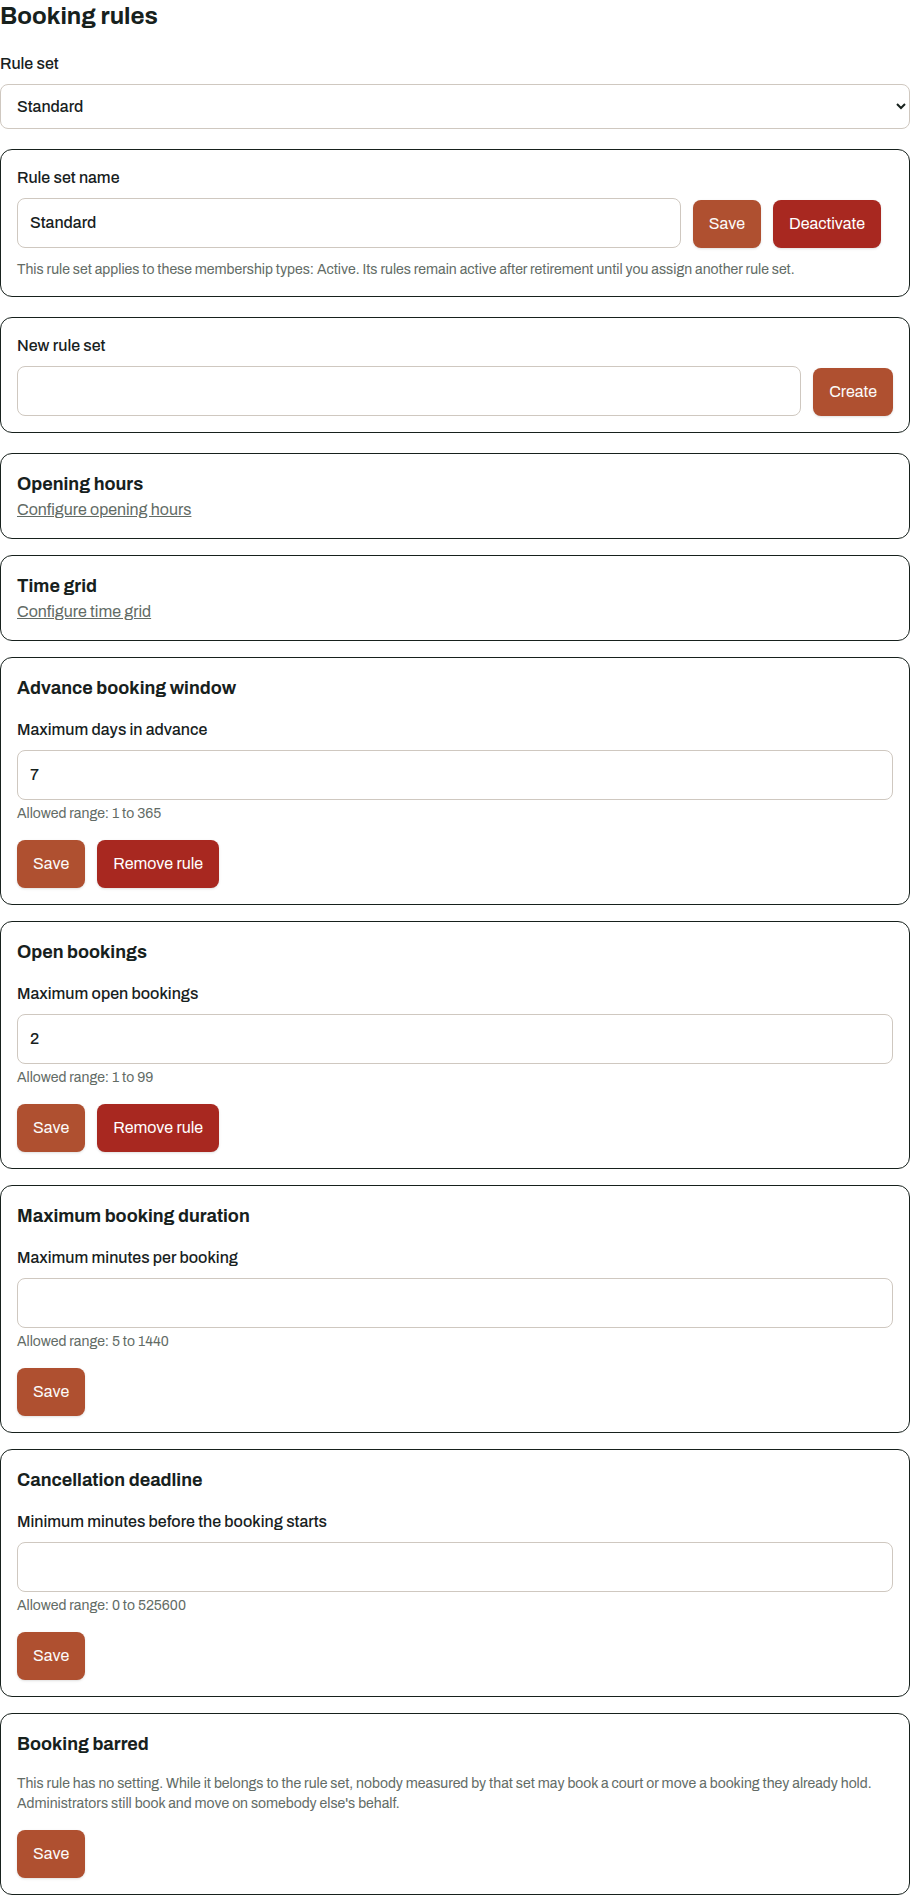
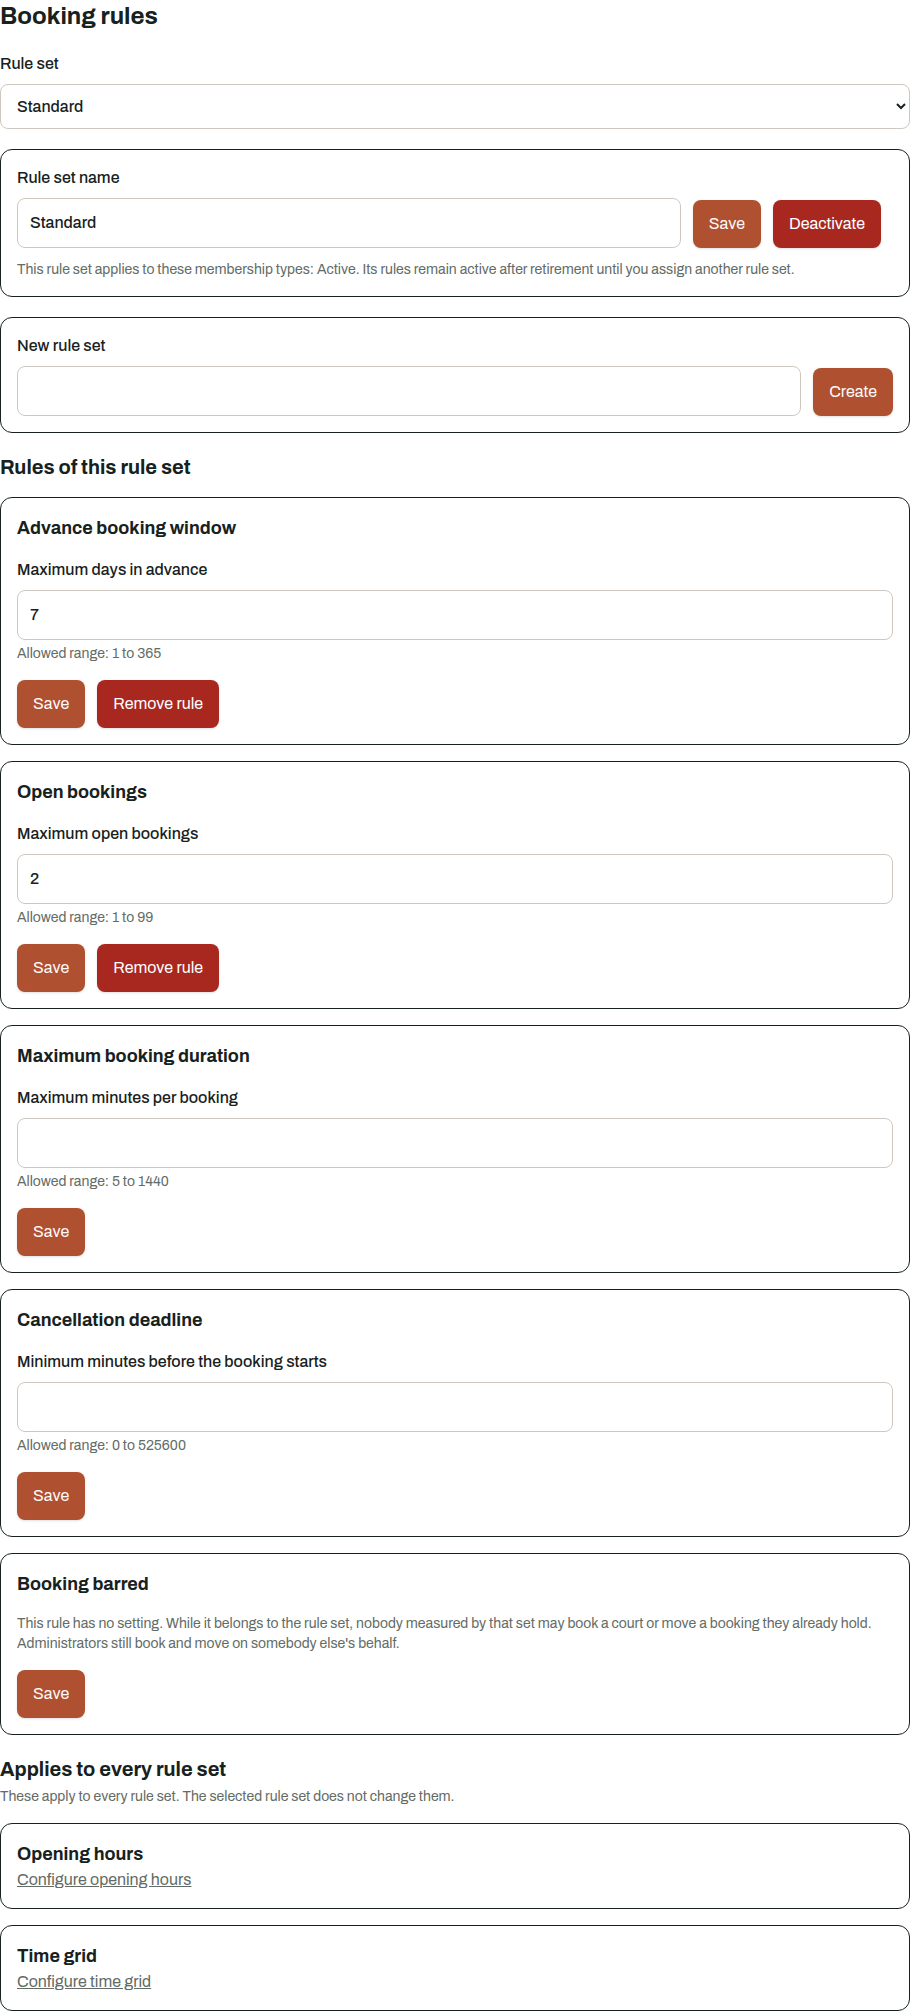
feat: show which booking rules no rule set can change (#1038)
* feat: show which booking rules no rule set can change

The rule list rendered every rule type the engine evaluates in one block under
the rule set selector, so opening hours and the booking grid read as settings of
the selected rule set. They are not: a club's hours describe the facility, and
two rule sets with different grids would draw two different plans of the same
courts. Only the missing fields and a link said so, and switching the rule set
was the only way to find out that they do not move.

They now stand in their own group, named and explained. The board guide already
said "Öffnungszeiten und Buchungsraster gelten für den ganzen Verein. Sie stehen
deshalb außerhalb der Regelwerke" — the screen it shows is what disagreed.

* feat: name both groups of booking rules and nest their headings

The self-review found the split half-told: the club-wide group carried a
heading while the rule set's own rules carried none, so the page said what the
lower group is not without saying what the upper group is. And both headings sat
at the same level as the rule titles beneath them, which reads as siblings to
anyone navigating by heading rather than by eye.

Both groups are named now, and a rule title sits one level under the group that
holds it.

---------

diff --git a/frontend/src/views/AdminConfigurationView.tsx b/frontend/src/views/AdminConfigurationView.tsx
@@ -460,8 +460,16 @@ export function AdminConfigurationView({ configurationChanged }: { configuration
             <TextField data-testid="new-rule-set-name" disabled={pending} name="name" maxLength={RULE_SET_NAME_LENGTH} label={t("admin.rules.newRuleSet")} />
             <Button variant="primary" data-testid="create-rule-set" disabled={pending} type="submit">{t("admin.create")}</Button>
           </form>
-          <div className="grid gap-4">
-            {ruleTypes.map((type) => <RuleEditor key={type.ruleType} type={type} definition={rules.find((rule) => rule.ruleType === type.ruleType)} disabled={loadedRuleSetId !== selectedRuleSetId} save={saveRule} remove={removeRule} />)}
+          <div data-testid="rule-set-rules" className="grid gap-4">
+            <h3 data-testid="rule-set-rules-heading" className="text-xl font-bold">{t("admin.rules.ofRuleSet")}</h3>
+            {ruleTypes.filter((type) => type.configurable).map((type) => <RuleEditor key={type.ruleType} type={type} definition={rules.find((rule) => rule.ruleType === type.ruleType)} disabled={loadedRuleSetId !== selectedRuleSetId} save={saveRule} remove={removeRule} />)}
+          </div>
+          <div data-testid="club-wide-rules" className="grid gap-4">
+            <div className="grid gap-1">
+              <h3 data-testid="club-wide-rules-heading" className="text-xl font-bold">{t("admin.rules.clubWide")}</h3>
+              <p data-testid="club-wide-rules-note" className="text-muted text-sm">{t("admin.rules.clubWideHelp")}</p>
+            </div>
+            {ruleTypes.filter((type) => !type.configurable).map((type) => <RuleEditor key={type.ruleType} type={type} definition={undefined} disabled save={saveRule} remove={removeRule} />)}
           </div>
         </div>
       </>}
@@ -483,7 +491,7 @@ function RuleEditor({ type, definition, disabled, save, remove }: { type: RuleTy
   const mark = `rule:${type.ruleType}`;
   const unsaved = differs(params, saved);
   return <article className="surface-subtle grid gap-4 rounded-xl border p-4">
-    <div><h3 data-testid={`rule-${type.ruleType}-title`} className="text-lg font-bold">{t(`admin.rules.type.${type.ruleType}`)}</h3>{!type.configurable && <GlobalRuleLink ruleType={type.ruleType} />}</div>
+    <div><h4 data-testid={`rule-${type.ruleType}-title`} className="text-lg font-bold">{t(`admin.rules.type.${type.ruleType}`)}</h4>{!type.configurable && <GlobalRuleLink ruleType={type.ruleType} />}</div>
     {type.configurable && <>
       {type.parameters.length === 0 && <p data-testid={`rule-${type.ruleType}-description`} className="text-muted text-sm">{t(`admin.rules.description.${type.ruleType}`, { defaultValue: "" })}</p>}
       {type.parameters.map((parameter) => <div key={parameter.name} className="grid gap-1">

diff --git a/frontend/src/views/AdminConfigurationView.test.tsx b/frontend/src/views/AdminConfigurationView.test.tsx
@@ -454,6 +454,32 @@ describe("AdminConfigurationView", () => {
     expect(screen.getByTestId("password-reset-credential-hours")).toHaveAttribute("max", "168");
   });
 
+  it("given rules no rule set can change, when configuration loads, then they stand apart from the ones it can", async () => {
+    // when
+    render(<MemoryRouter><UnsavedChangesProvider><AdminConfigurationView configurationChanged={() => undefined} /></UnsavedChangesProvider></MemoryRouter>);
+    const clubWide = await screen.findByTestId("club-wide-rules");
+
+    // then
+    expect(clubWide).toContainElement(screen.getByTestId("rule-OPENING_HOURS-title"));
+    expect(clubWide).toContainElement(screen.getByTestId("rule-SLOT_GRID-title"));
+    expect(clubWide).not.toContainElement(screen.getByTestId("rule-ADVANCE_WINDOW-title"));
+    expect(screen.getByTestId("rule-set-rules")).not.toContainElement(screen.getByTestId("rule-OPENING_HOURS-title"));
+    expect(screen.getByTestId("club-wide-rules-note")).toHaveTextContent(
+      "These apply to every rule set. The selected rule set does not change them.");
+  });
+
+  it("given both groups of rules, when configuration loads, then each is named and outranks the rules it holds", async () => {
+    // when
+    render(<MemoryRouter><UnsavedChangesProvider><AdminConfigurationView configurationChanged={() => undefined} /></UnsavedChangesProvider></MemoryRouter>);
+
+    // then
+    expect(await screen.findByTestId("rule-set-rules-heading")).toHaveTextContent("Rules of this rule set");
+    expect(screen.getByTestId("rule-set-rules-heading").tagName).toBe("H3");
+    expect(screen.getByTestId("club-wide-rules-heading").tagName).toBe("H3");
+    expect(screen.getByTestId("rule-ADVANCE_WINDOW-title").tagName).toBe("H4");
+    expect(screen.getByTestId("rule-OPENING_HOURS-title").tagName).toBe("H4");
+  });
+
   it("given an admin, when configuration loads, then club settings and every rule type are visible", async () => {
     // when
     render(<MemoryRouter><UnsavedChangesProvider><AdminConfigurationView configurationChanged={() => undefined} /></UnsavedChangesProvider></MemoryRouter>);

diff --git a/frontend/src/i18n.ts b/frontend/src/i18n.ts
@@ -187,6 +187,9 @@ const resources = {
     "admin.rules.retireUnused": "Auf dieses Regelwerk zeigt derzeit keine Mitgliedsart. Stilllegen ändert für niemanden etwas.",
     "admin.rules.retireInUse": "Dieses Regelwerk gilt für folgende Mitgliedsarten: {{types}}. Nach dem Stilllegen gelten die Regeln weiter, bis du ein anderes Regelwerk zuweist.",
     "admin.rules.ruleSet": "Regelwerk",
+    "admin.rules.ofRuleSet": "Regeln dieses Regelwerks",
+    "admin.rules.clubWide": "Gilt für alle Regelwerke",
+    "admin.rules.clubWideHelp": "Diese Regeln gelten für jedes Regelwerk. Das ausgewählte Regelwerk ändert sie nicht.",
     "admin.rules.global.OPENING_HOURS": "Öffnungszeiten konfigurieren",
     "admin.rules.global.SLOT_GRID": "Zeitraster konfigurieren",
     "admin.rules.saved": "Die Regel wurde gespeichert.",
@@ -1070,6 +1073,9 @@ const resources = {
     "admin.rules.retireUnused": "No membership type points at this rule set. Retiring it changes nothing for anybody.",
     "admin.rules.retireInUse": "This rule set applies to these membership types: {{types}}. Its rules remain active after retirement until you assign another rule set.",
     "admin.rules.ruleSet": "Rule set",
+    "admin.rules.ofRuleSet": "Rules of this rule set",
+    "admin.rules.clubWide": "Applies to every rule set",
+    "admin.rules.clubWideHelp": "These apply to every rule set. The selected rule set does not change them.",
     "admin.rules.global.OPENING_HOURS": "Configure opening hours",
     "admin.rules.global.SLOT_GRID": "Configure time grid",
     "admin.rules.saved": "The rule was saved.",
